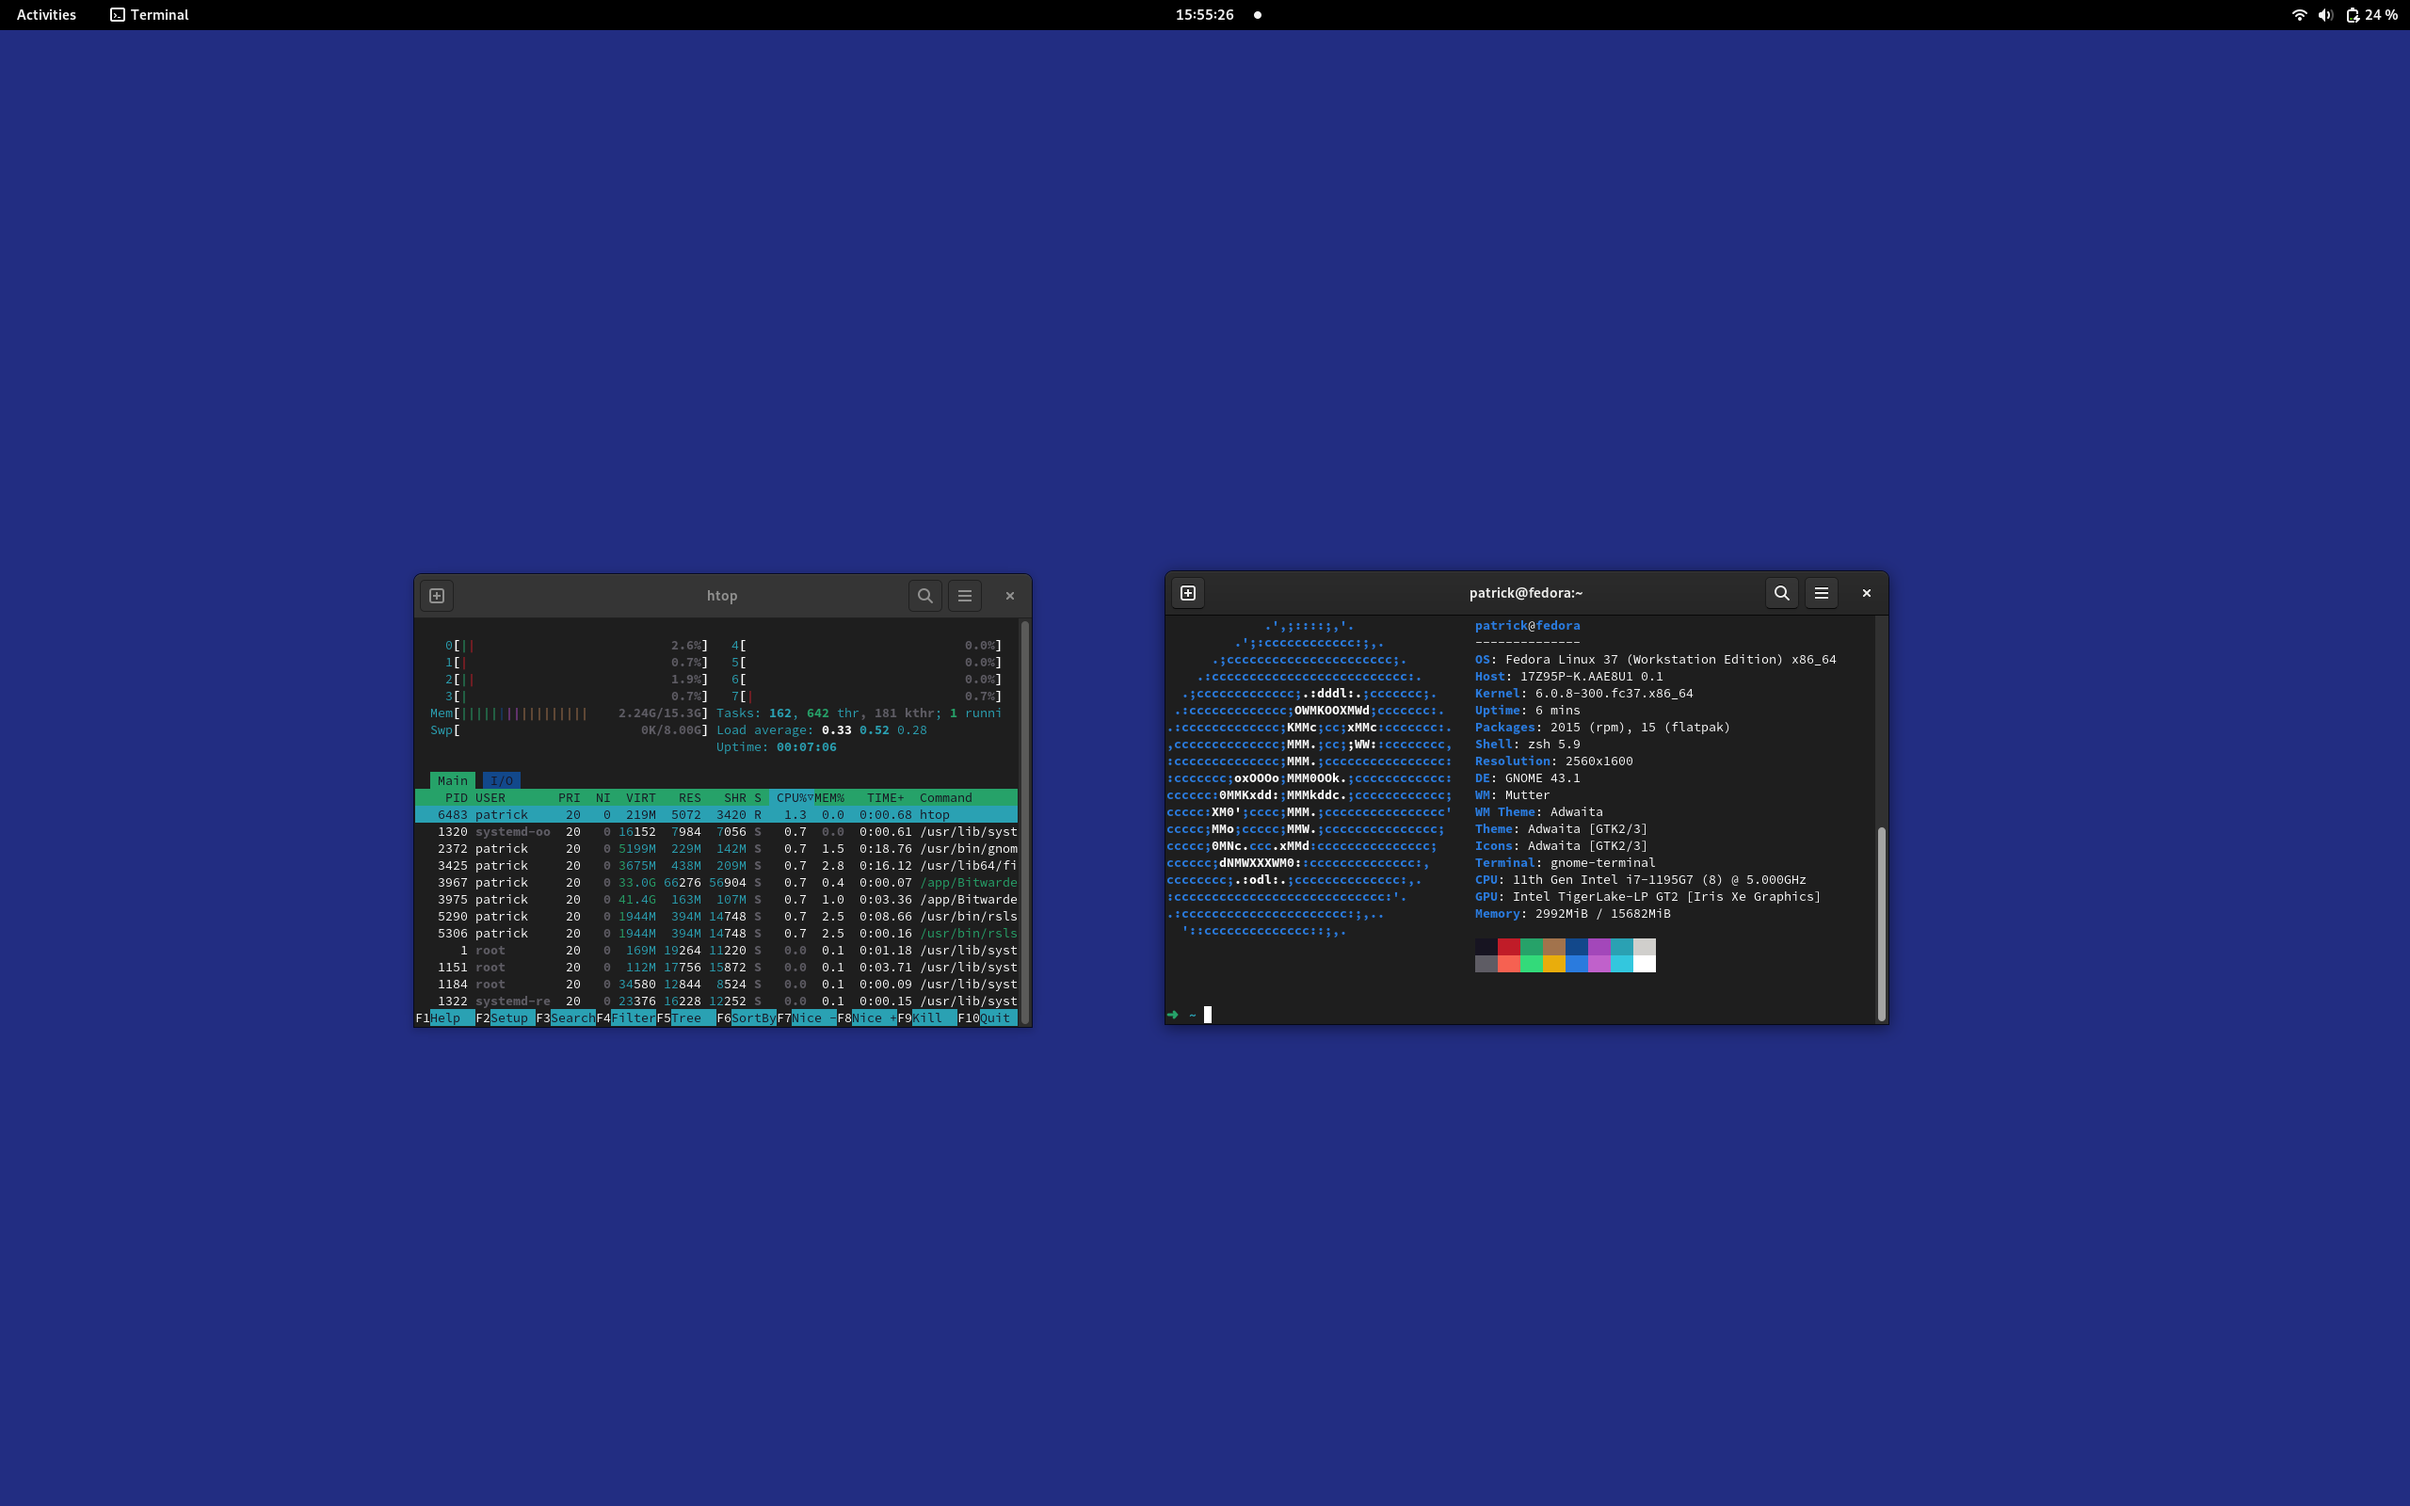
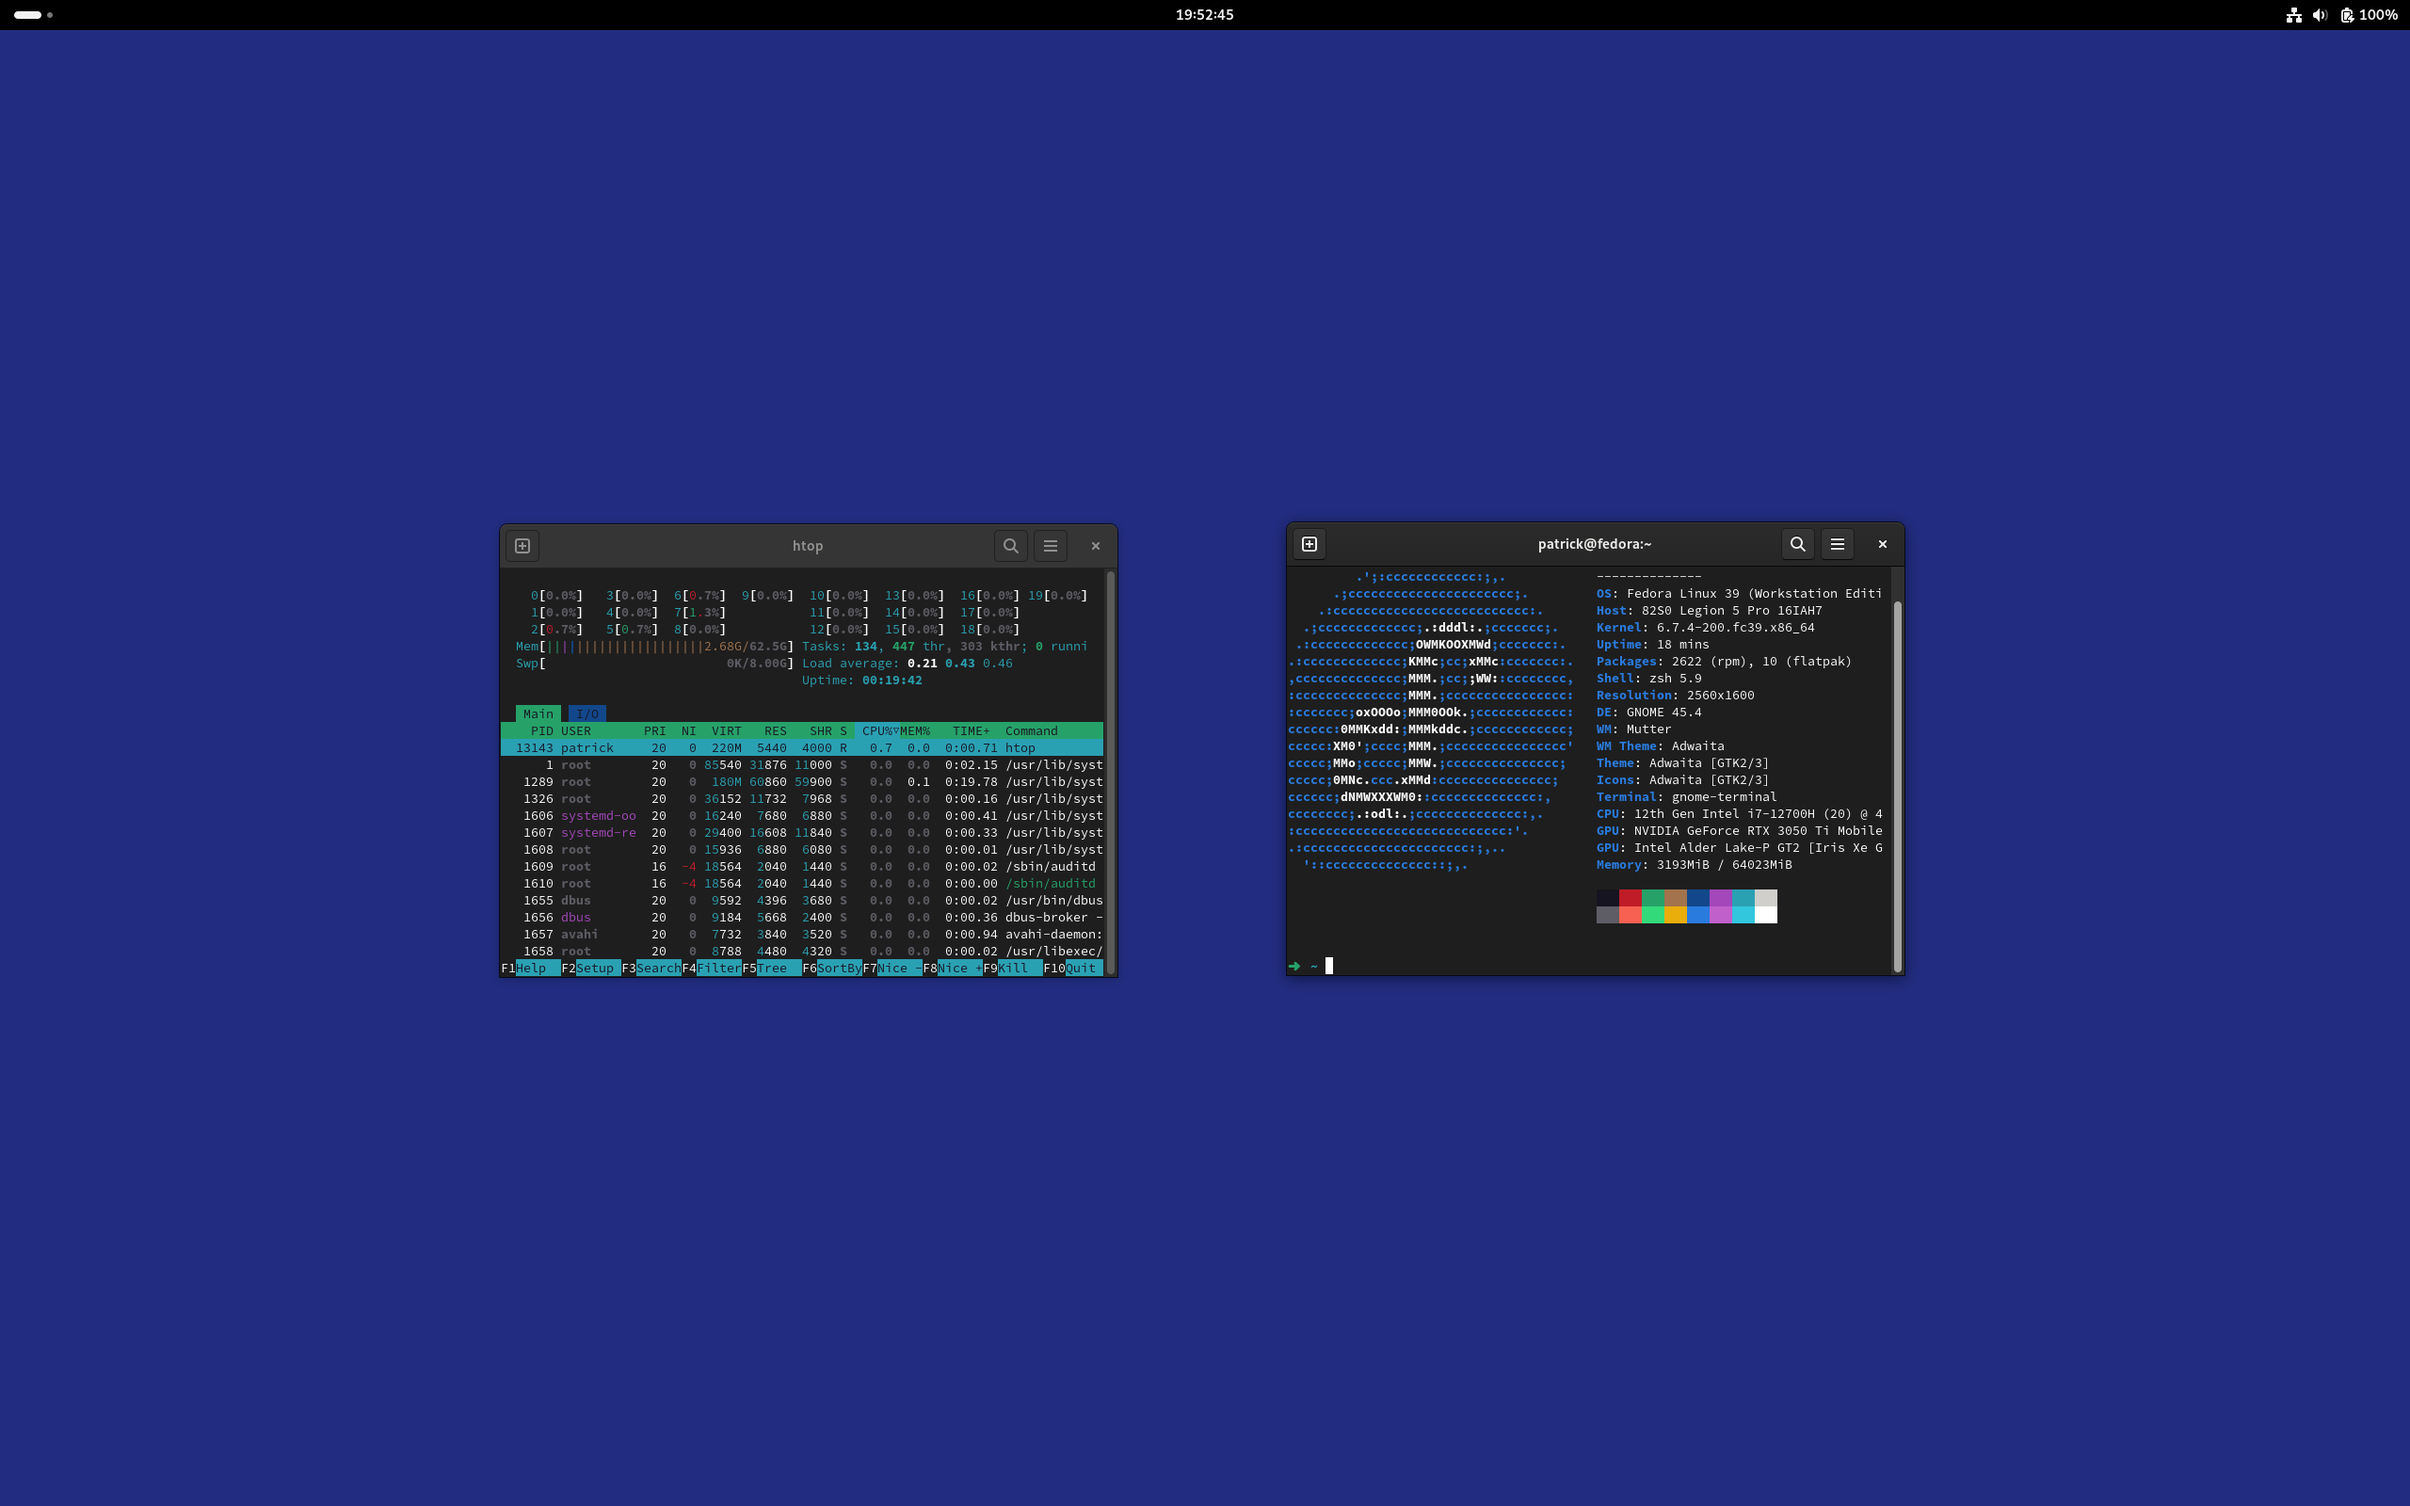
Fedora 39 Upgrade, Docker Compose Fix

Changed region(s): [[0.1562, 0.3438, 0.8125, 0.6875], [0.0, 0.0, 0.0312, 0.0312]]

diff --git a/README.md b/README.md
@@ -5,7 +5,7 @@
 
 | Operating Systemn | Release | Date Tested |
 | ----------------- | ------- | ----------- |
-| Fedora            | 37      | 2022-11-19  |
+| Fedora            | 39      | 2024-02-16  |
 
 
 ## Screenshots
